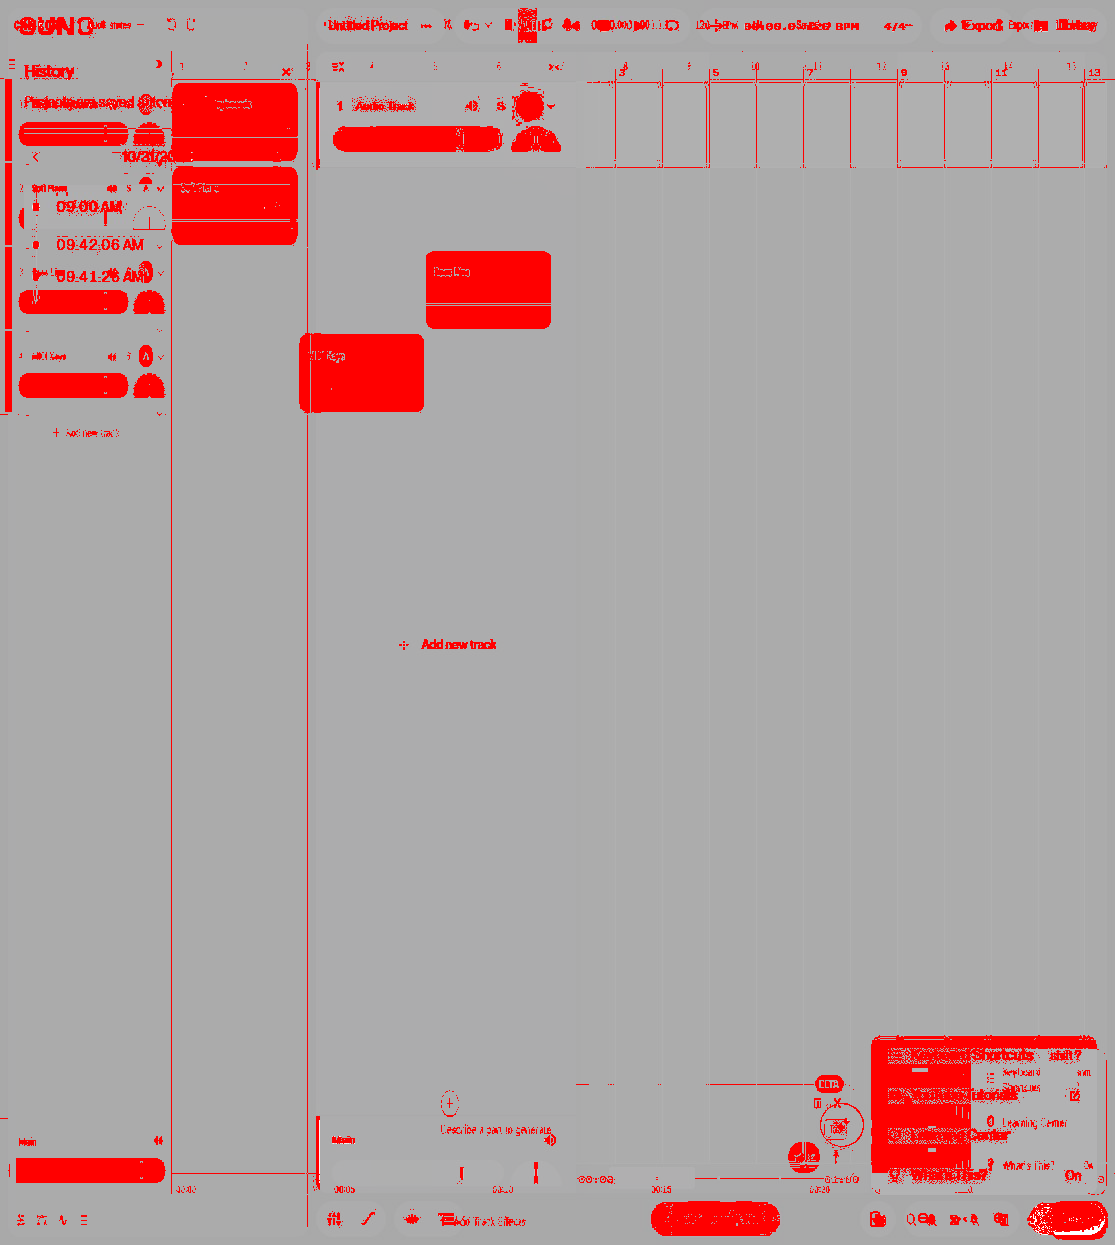
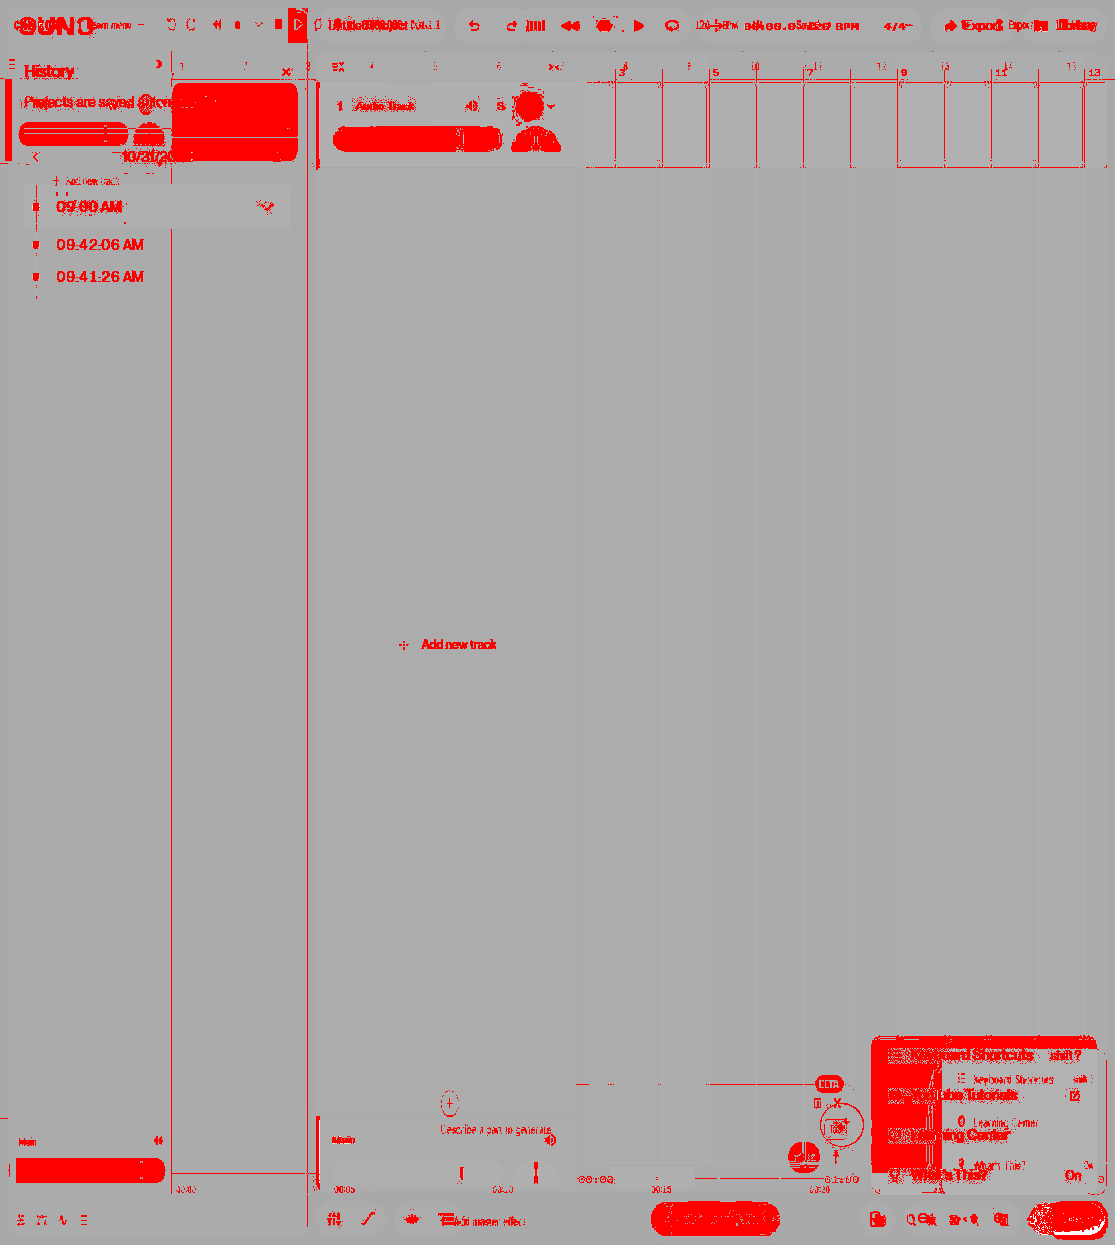
feat(studio): twenty clip colours, a default Audio Track, and a Learn menu that is actually visible
W9 adjudication named three layout gaps this closes: the clip-colour flyout now carries the captured twenty swatches in four hue rows (with the e2e asserting 20); an empty project starts with one Audio Track as captured in S05/S16, and the onboarding overlay keys off 'no clips' so it still appears; the Learn menu is 250 px with nowrap rows and z-index 90, because at 56 it opened behind the What's This card and could not be captured or clicked.

Recaptured S05/S16 (one track), S13 (menu visible, single-line rows) and S28 (20 swatches).

diff --git a/camxora.com/app/globals.css b/camxora.com/app/globals.css
@@ -5361,8 +5361,8 @@ html{color-scheme:dark}
 .se-learn{position:relative}
 .se-learn-pill{display:inline-flex;align-items:center;gap:6px;height:36px;padding:0 14px;border-radius:999px;border:1px solid transparent;background:hsl(var(--foreground));color:hsl(var(--background))}
 .se-learn-pill.on{box-shadow:0 0 0 2px rgba(168,85,247,.55)}
-.se-learn-menu{position:absolute;right:0;bottom:44px;display:flex;flex-direction:column;min-width:206px;padding:8px;border-radius:12px;background:#1c1c1e;border:1px solid rgba(255,255,255,.06);box-shadow:0 18px 48px rgba(0,0,0,.45);z-index:56}
-.se-learn-menu button{display:flex;align-items:center;gap:10px;height:44px;padding:0 12px;border-radius:9px;text-align:left;font-size:13px}
+.se-learn-menu{position:absolute;right:0;bottom:44px;display:flex;flex-direction:column;min-width:250px;padding:8px;border-radius:12px;background:#1c1c1e;border:1px solid rgba(255,255,255,.06);box-shadow:0 18px 48px rgba(0,0,0,.45);z-index:90}
+.se-learn-menu button{display:flex;align-items:center;gap:10px;height:44px;padding:0 12px;border-radius:9px;text-align:left;font-size:13px;white-space:nowrap}
 .se-learn-menu button:hover:not(:disabled){background:rgba(255,255,255,.06)}
 .se-learn-menu button span{margin-left:auto;font-size:11px;opacity:.6}
 .se-learn-menu button:disabled{opacity:.5}

diff --git a/camxora.com/tests/studio-seed.test.ts b/camxora.com/tests/studio-seed.test.ts
@@ -1,6 +1,6 @@
 import { describe, expect, it } from "vitest";
 
-import { buildSeedFromSong, isSeedable, pickSeedClip } from "@/lib/studio-seed";
+import { buildSeedFromSong, emptyProjectData, isSeedable, pickSeedClip } from "@/lib/studio-seed";
 import type { WebMusicGeneration } from "@/lib/library-api";
 
 function song(overrides: Partial<WebMusicGeneration> = {}): WebMusicGeneration {
@@ -77,5 +77,14 @@ describe("buildSeedFromSong", () => {
     const seed = buildSeedFromSong(song());
     const chain = (seed.data as { masterChain?: Array<{ type?: string }> }).masterChain ?? [];
     expect(chain.map((entry) => entry.type)).toEqual(["compressor", "eq", "eq"]);
+  });
+});
+
+describe("emptyProjectData", () => {
+  it("starts with one Audio Track, as captured in S05/S16", () => {
+    const data = emptyProjectData() as { lanes: unknown[]; tracks: Array<{ name: string }> };
+    expect(data.lanes).toEqual([]);
+    expect(data.tracks).toHaveLength(1);
+    expect(data.tracks[0].name).toBe("Audio Track");
   });
 });

diff --git a/camxora.com/components/studio/StudioEditorShell.tsx b/camxora.com/components/studio/StudioEditorShell.tsx
@@ -188,7 +188,12 @@ const STUDIO_MODEL_API: Record<string, string> = {
   "v6-mini": "V6_MINI",
 };
 /** Clip Color swatches in the clip menu (same families as tracks). */
-const CLIP_COLORS = ["#38bdf8", "#a78bfa", "#f472b6", "#fb923c", "#4ade80"];
+const CLIP_COLORS = [
+  "#9f1239", "#be185d", "#db2777", "#ec4899", "#f9a8d4",
+  "#1e3a8a", "#1d4ed8", "#2563eb", "#3b82f6", "#93c5fd",
+  "#7c2d12", "#c2410c", "#ea580c", "#f97316", "#fdba74",
+  "#14532d", "#15803d", "#16a34a", "#4ade80", "#bbf7d0",
+];
 
 
 /** Retry a library read once: a fresh session can race the first authorised fetch. */
@@ -6378,7 +6383,7 @@ export function StudioEditorShell() {
 
       <StudioOnboarding
         projectId={projectId}
-        isEmpty={!loading && !error && tracks.length === 0 && clips.length === 0}
+        isEmpty={!loading && !error && clips.length === 0}
         reopenToken={quickStartToken}
         onOpenLibrary={(tab) => {
           setLibraryOpen(true);

diff --git a/camxora.com/lib/studio-seed.ts b/camxora.com/lib/studio-seed.ts
@@ -1,5 +1,6 @@
 import type { WebMusicClip, WebMusicGeneration } from "@/lib/library-api";
 import type { StudioProjectData } from "@/lib/studio-api";
+import { colorForTrackName } from "@/lib/studio-tracks";
 
 /**
  * Seeding a Studio project from an existing song.
@@ -83,4 +84,27 @@ export function buildSeedFromSong(
       ],
     } as StudioProjectData,
   };
+}
+
+/** The captured empty project (S05/S16) starts with one Audio Track, not zero. */
+export function emptyProjectData(): StudioProjectData {
+  return {
+    lanes: [],
+    tracks: [
+      {
+        id: "track-audio-1",
+        name: "Audio Track",
+        color: colorForTrackName("Audio Track"),
+        index: 0,
+        volume: 80,
+        pan: 0,
+        muted: false,
+        solo: false,
+        hidden: false,
+        collapsed: false,
+        chain: [],
+        clipIds: [],
+      },
+    ],
+  } as StudioProjectData;
 }

diff --git a/camxora.com/tests/e2e/studio-pixel.spec.ts b/camxora.com/tests/e2e/studio-pixel.spec.ts
@@ -1035,14 +1035,14 @@ test("clip colour opens the captured submenu", async ({ page }) => {
       swatches: element.querySelectorAll(".se-color-grid button").length,
     };
   });
-  // S28: a 196 px card to the right of the row, Auto + five swatches.
+  // S28: a 196 px card to the right of the row, Auto + twenty swatches in four hue rows.
   expect(info.width).toBe(196);
   expect(info.radius).toBe("12px");
   expect(info.background).toBe("rgb(19, 24, 38)");
   expect(info.leftOfMenu).toBeGreaterThanOrEqual(3);
   expect(info.leftOfMenu).toBeLessThanOrEqual(16);
   expect(info.auto).toBe("Auto");
-  expect(info.swatches).toBe(5);
+  expect(info.swatches).toBe(20);
 });
 
 test("EQ card matches the captured band editor and drags", async ({ page }) => {

diff --git a/camxora.com/components/studio/StudioHome.tsx b/camxora.com/components/studio/StudioHome.tsx
@@ -22,6 +22,7 @@ import {
   updateStudioProject,
   type StudioProject,
 } from "@/lib/studio-api";
+import { emptyProjectData } from "@/lib/studio-seed";
 
 const SYNC_LABEL: Record<string, string> = {
   pending: "waiting for the first copy",
@@ -162,7 +163,7 @@ export function StudioHome({ marketing }: { marketing: ReactNode }) {
         title: "Untitled project",
         bpm: 120,
         time_signature: "4/4",
-        data: {},
+        data: emptyProjectData(),
       });
       router.push(`/studio/editor?project=${encodeURIComponent(created.id)}`);
     } catch (cause) {
